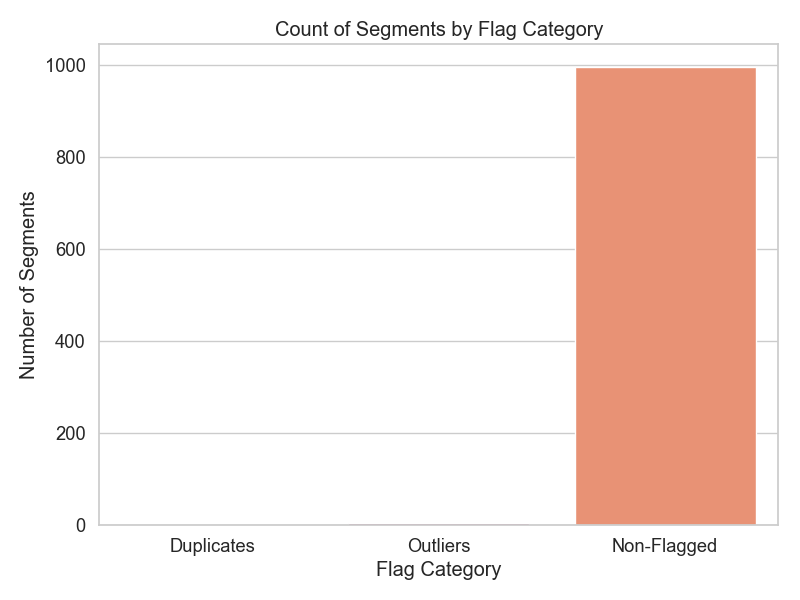
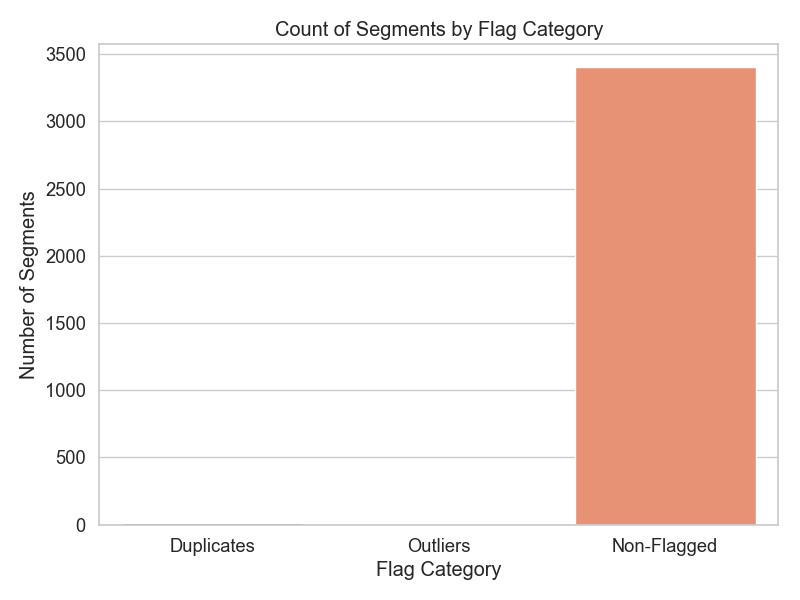
Sanitization engine and some code refactoring

diff --git a/src/sanitization_main.py b/src/sanitization_main.py
@@ -5,41 +5,8 @@ import logging
 import os
 import time
 import pandas as pd
-import logging
-import subprocess
-import sys
-
-def run_command(command):
-    logging.info(f"Running: {' '.join(command)}")
-    result = subprocess.run(command, capture_output=True, text=True)
-    if result.returncode != 0:
-        logging.error(f"Error running {' '.join(command)}: {result.stderr}")
-        sys.exit(result.returncode)
-    else:
-        logging.info(result.stdout)
-
-def run_full_pipeline(args):
-    """
-    Runs the entire pipeline sequentially by invoking the other modules via subprocess.
-    """
-
-    logging.info("Starting Full Data Sanitization Pipeline")
-
-    # Step 1: Preprocessing
-    if args.use_default_raw_data:
-        run_command([
-            sys.executable, "src/preprocessor/preprocessor_main.py",
-            "--output-dir", "data",
-            "--remove-stopwords",
-        ])
-    elif args.raw_data_path is not None:
-        run_command([
-            sys.executable, "src/preprocessor/preprocessor_main.py",
-            "--output-dir", "data",
-            "--input-path", args.raw_data_path,
-            "--remove-stopwords",
-        ])
-
+from sanitization_engine.manager import run_full_pipeline
+from sanitization_engine.sanitizer import aggregate_flags, sanitize_data
 
 
 def main():
@@ -68,15 +35,33 @@ def main():
     logging.info("Starting Data Sanitization step.")
 
     # Load necessary data
-    preprocessed_path = "../data/preprocessed_wikitext103_subset.csv"
-    contamination_path = "../data/contamination_flags.csv"
-    membership_path = "../data/membership_inference_flags.csv"
+    # preprocessed_path = "../data/preprocessed_wikitext103_subset.csv"
+    # contamination_path = "../data/contamination_flags.csv"
+    # membership_path = "../data/membership_inference_flags.csv"
+    # for testing purposes
+    preprocessed_path = "data/preprocessed_wikitext103_subset_3414.csv"
+    contamination_path = "data/contamination_flags_3414.csv"
+    membership_path = "data/membership_inference_flags_3414.csv"
 
     df_preprocessed = pd.read_csv(preprocessed_path)
     df_contamination = pd.read_csv(contamination_path)
     df_membership = pd.read_csv(membership_path)
 
+    flagged_indices, flag_reason = aggregate_flags(df_contamination, df_membership)
 
+    logging.info(f"Total flagged segments: {len(flagged_indices)}")
+
+    sanitized_df, log_df = sanitize_data(df_preprocessed, flagged_indices, flag_reason, args.sanitization_action)
+
+    # Ensure output directories exist
+    os.makedirs(os.path.dirname(args.sanitized_output), exist_ok=True)
+    os.makedirs(os.path.dirname(args.sanitization_log), exist_ok=True)
+
+    sanitized_df.to_csv(args.sanitized_output, index=False)
+    logging.info(f"Sanitized dataset saved: {args.sanitized_output}")
+
+    log_df.to_csv(args.sanitization_log, index=False)
+    logging.info(f"Sanitization log saved: {args.sanitization_log}")
 
     end_time = time.perf_counter()
     logging.info(f"Sanitization pipeline completed in {end_time - start_time:.2f}s")

diff --git a/src/sanitization_engine/manager.py b/src/sanitization_engine/manager.py
@@ -1,0 +1,67 @@
+import logging
+import subprocess
+import sys
+
+def run_command(command):
+    logging.info(f"Running: {' '.join(command)}")
+    result = subprocess.run(command, capture_output=True, text=True)
+    if result.returncode != 0:
+        logging.error(f"Error running {' '.join(command)}: {result.stderr}")
+        sys.exit(result.returncode)
+    else:
+        logging.info(result.stdout)
+
+def run_full_pipeline(args):
+    """
+    Runs the entire pipeline sequentially by invoking the other modules via subprocess.
+    """
+
+    logging.info("Starting Full Data Sanitization Pipeline")
+    logging.info("Starting Data Preprocessing Pipeline")
+    # Step 1: Preprocessing
+    if args.use_default_raw_data:
+        run_command([
+            sys.executable, "src/preprocessor/preprocessor_main.py",
+            "--output-dir", "data",
+            # "--segment-limit", "189700",
+            "--segment-limit", "3414", # for testing purposes
+            # "--output-filename", "preprocessed_wikitext103_subset.csv",
+            "--output-filename", "preprocessed_wikitext103_subset_3414.csv",
+            "--remove-stopwords"
+        ])
+    elif args.raw_data_path is not None:
+        run_command([
+            sys.executable, "src/preprocessor/preprocessor_main.py",
+            "--output-dir", "data",
+            "--input-path", args.raw_data_path,
+            # "--segment-limit", "189700",
+            "--segment-limit", "3414", # for testing purposes
+            # "--output-filename", "preprocessed_wikitext103_subset.csv",
+            "--output-filename", "preprocessed_wikitext103_subset_3414.csv",
+            "--remove-stopwords"
+        ])
+    logging.info("Starting Contamination Detection Pipeline")
+    # Step 2: Contamination Detection
+    run_command([
+        sys.executable, "src/contamination_detector/detector.py",
+        # "--input-file", "data/preprocessed_wikitext103_subset.csv",
+        "--input-file", "data/preprocessed_wikitext103_subset_3414.csv", # for testing
+        # "--output-file", "data/contamination_flags.csv"
+        "--output-file", "data/contamination_flags_3414.csv",
+        "--ref_similarity_threshold", "0.9",
+        "--perplexity_ratio_threshold", "0.8"
+    ])
+
+    logging.info("Starting Membership Inference Pipeline")
+    # Step 3: Membership Inference Checker
+    run_command([
+        sys.executable, "src/membership_inference_checker/main.py",
+        # "--input-file", "data/preprocessed_wikitext103_subset.csv",
+        # "--output-file", "data/membership_inference_flags.csv"
+        "--input-file", "data/preprocessed_wikitext103_subset_3414.csv",
+        "--output-file", "data/membership_inference_flags_3414.csv",
+        "--high-sim-threshold", "0.95",
+        "--low-sim-threshold", "0.3"
+    ])
+
+    logging.info("Pipeline Modules Completed Successfully.")

diff --git a/src/sanitization_engine/sanitizer.py b/src/sanitization_engine/sanitizer.py
@@ -1,0 +1,46 @@
+import logging
+import pandas as pd
+from tqdm import tqdm
+
+def aggregate_flags(df_contamination, df_membership):
+    logging.info("Aggregating contamination and membership inference flags.")
+    contamination_indices = set(df_contamination[df_contamination['contamination_flag']].index)
+    membership_indices = set(df_membership[df_membership['membership_inference_flag']].index)
+
+    combined_flags = contamination_indices.union(membership_indices)
+
+    flag_reason = {}
+    for idx in combined_flags:
+        reasons = []
+        if idx in contamination_indices:
+            reasons.append("contamination")
+        if idx in membership_indices:
+            reasons.append("membership")
+        flag_reason[idx] = ", ".join(reasons)
+
+    return combined_flags, flag_reason
+
+def sanitize_data(df, flagged_indices, flag_reason, action="remove"):
+    log_entries = []
+
+    for idx in tqdm(flagged_indices, desc="Sanitizing Data", dynamic_ncols=True):
+        original_text = df.at[idx, 'segments']
+        reason = flag_reason.get(idx, "unknown")
+
+        if action == "remove":
+            df.drop(idx, inplace=True)
+            log_entries.append((idx, "removed", reason, original_text))
+
+        elif action == "anonymize":
+            df.at[idx, 'segments'] = "[REMOVED DUE TO PRIVACY RISK]"
+            log_entries.append((idx, "anonymized", reason, original_text))
+
+        elif action == "rewrite":
+            df.at[idx, 'segments'] = original_text + " [REWRITTEN]"
+            log_entries.append((idx, "rewritten", reason, original_text))
+
+        else:
+            logging.warning(f"Invalid action: {action}, skipping index {idx}")
+
+    log_df = pd.DataFrame(log_entries, columns=["index", "action", "reason", "original_text"])
+    return df.reset_index(drop=True), log_df

diff --git a/src/preprocessor/preprocessor_main.py b/src/preprocessor/preprocessor_main.py
@@ -49,9 +49,14 @@ def cap_dataset_by_bytes(df, max_bytes):
 
 def preprocess_dataset(args):
     print("Loading dataset...")
-    dataset = load_dataset(DEFAULT_DATASET_NAME, split=DEFAULT_SPLIT)
-    df = pd.DataFrame(dataset)
-    print(f"Original dataset rows: {len(df)}")
+    if args.input_path is None:
+        dataset = load_dataset(DEFAULT_DATASET_NAME, split=DEFAULT_SPLIT)
+        df = pd.DataFrame(dataset)
+        print(f"Original dataset rows: {len(df)}")
+    else :
+        data_file = args.input_path
+        df = pd.read_csv(data_file)
+        print(f"Original dataset rows: {len(df)}")
 
     print("Capping dataset size...")
     df = cap_dataset_by_bytes(df, args.max_bytes)
@@ -83,6 +88,8 @@ def main():
     parser = argparse.ArgumentParser(description="Data Preprocessing Module")
     parser.add_argument("--output-dir", type=str, default="data",
                         help="Directory to save the preprocessed CSV file (default: ../data)")
+    parser.add_argument("--input-path", type=str, default=None,
+                        help="Input path for Raw data")
     parser.add_argument("--output-filename", type=str, default=DEFAULT_OUTPUT_FILENAME,
                         help=f"Output CSV filename (default: {DEFAULT_OUTPUT_FILENAME})")
     parser.add_argument("--max-bytes", type=int, default=DEFAULT_MAX_BYTES,
